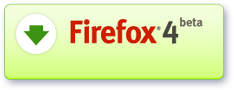
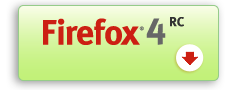
change firefox 4 beta homepage to RC (bug 627407)
git-svn-id: svn+ssh://svn.mozilla.org/projects/mozilla.com/trunk@82472 4eb1ac78-321c-0410-a911-ec516a8615a5

diff --git a/en-US/firefox/RC/index.html b/en-US/firefox/RC/index.html
@@ -1,7 +1,7 @@
 <?php
     // The $body_* variables are for compatibility with pre-existing css
 
-    $page_title = 'Firefox 4 Beta';
+    $page_title = 'Firefox 4 RC';
     $body_id    = 'firefox-beta';
 
     $current_url = 'http://'.$_SERVER['HTTP_HOST'].$_SERVER['REQUEST_URI'];
@@ -21,7 +21,7 @@ hidePartialLocaleJS(LATEST_FIREFOX_DEVEL_VERSION);
 ?>
 <div id="main-feature">
     <div id="feature-contents">
-        <h2><img src="<?=$config['static_prefix']?>/img/firefox/beta/4/title.png" alt="Firefox 4 Beta" /></h2>
+        <h2><img src="<?=$config['static_prefix']?>/img/firefox/beta/4/title.png" alt="Firefox 4 RC" /></h2>
         <h3>It all begins here:</h3>
         <p>Help make the next version of the world’s best browser.</p>
         <script>
@@ -43,7 +43,7 @@ hidePartialLocaleJS(LATEST_FIREFOX_DEVEL_VERSION);
 
 <div id="beta-sub-features">
     <div class="sub-feature" id="beta-install">
-        <h3>Install the Beta</h3>
+        <h3>Install the RC</h3>
 
     <script>
           <!--
@@ -66,7 +66,7 @@ hidePartialLocaleJS(LATEST_FIREFOX_DEVEL_VERSION);
           //-->
     </script>
     <?php echo $firefoxDetails->getNoScriptBlockForLocale('en-US', array('devel_version' => true)); ?>
-    <p>The Firefox 4 Beta includes the Feedback Add-on which includes you in user studies. No data will be sent to Mozilla without your permission. <a href="#privacy">More information</a></p>
+    <p>The Firefox 4 RC includes the Feedback Add-on which includes you in user studies. No data will be sent to Mozilla without your permission. <a href="#privacy">More information</a></p>
     </div>
     <div class="sub-feature" id="beta-feedback">
         <h3>Give us Feedback</h3>
@@ -77,7 +77,7 @@ hidePartialLocaleJS(LATEST_FIREFOX_DEVEL_VERSION);
         <h3>Spread the Word</h3>
         <div class="social-outer">
             <div class="social-inner tweet-link">
-                <?php $msg = "I just downloaded Firefox 4 Beta !" ; ?>
+                <?php $msg = "I just downloaded Firefox 4 RC !" ; ?>
                 <p><?= htmlspecialchars($msg) ?></p>
                 <a href="http://twitter.com/home/?status=<?=urlencode($msg)?>" class="tweet-this">Tweet this!</a>
             </div>
@@ -85,7 +85,7 @@ hidePartialLocaleJS(LATEST_FIREFOX_DEVEL_VERSION);
         <div class="social-outer">
             <div class="social-inner tweet-form">
                 <form action="http://twitter.com/home/" method="GET">
-                    <textarea name="status" rows="2" cols="20">I'm trying out Firefox 4 beta because... #fx4</textarea>
+                    <textarea name="status" rows="2" cols="20">I'm trying out Firefox 4 RC because... #fx4</textarea>
                     <button class="tweet-this">Tweet this!</button>
                 </form>
             </div>
@@ -94,21 +94,21 @@ hidePartialLocaleJS(LATEST_FIREFOX_DEVEL_VERSION);
             <div class="social-inner facebook-block">
                 <form action="http://www.facebook.com/sharer.php" method="GET">
                     <input type="hidden" name="u" value="<?=htmlspecialchars($current_url)?>" />
-                    <textarea rows="2" cols="20" name="t">Customize your Firefox 4 Beta tweet!</textarea>
+                    <textarea rows="2" cols="20" name="t">Customize your Firefox 4 RC tweet!</textarea>
                     <button class="update-status">Share this page</button>
                     <iframe src="http://www.facebook.com/plugins/like.php?href=<?=urlencode($current_url)?>&amp;layout=button_count&amp;show_faces=false&amp;width=90&amp;action=like&amp;colorscheme=light&amp;height=21" style="border: none; overflow:hidden; width:90px; height:21px;"></iframe>
                 </form>
             </div>
         </div>
-        <p>Help us make Firefox 4 Beta even better. After installing, click on feedback button to tell us what you think!. <a href="http://www.mozilla.com/en-US/firefox/beta/features/"></a></p>
+        <p>Help us make Firefox 4 RC even better. After installing, click on feedback button to tell us what you think!. <a href="http://www.mozilla.com/en-US/firefox/beta/features/"></a></p>
 
     </div>
     <div id="beta-sub-feature-footer"></div>
 </div>
 
 <div id="privacy" class="footnote"><div class="footnote-footer">
-    <h4>Firefox 4 Beta includes Feedback Add-on based on Mozilla Test Pilot</h4>
-    <p>Once you install the Firefox 4 Beta, you will notice the Feedback Add-on in the upper right corner. You can use this to provide instant feedback at any time. You will also be notified about user studies (run by Mozilla Test Pilot) which collect information about how you use Firefox, but not which websites you visit. You have control over your participation, and can choose to opt out of any study, or see what data has been collected. You will be asked before any data is sent to Mozilla. Please see
+    <h4>Firefox 4 RC includes Feedback Add-on based on Mozilla Test Pilot</h4>
+    <p>Once you install the Firefox 4 RC, you will notice the Feedback Add-on in the upper right corner. You can use this to provide instant feedback at any time. You will also be notified about user studies (run by Mozilla Test Pilot) which collect information about how you use Firefox, but not which websites you visit. You have control over your participation, and can choose to opt out of any study, or see what data has been collected. You will be asked before any data is sent to Mozilla. Please see
 the <a href="/<?=$lang?>/firefox/beta/feedbackprivacypolicy/">Feedback Add-on privacy policy</a> for more information.</p>
 </div></div>
 

diff --git a/style/firefox/beta/4/main.css b/style/firefox/beta/4/main.css
@@ -313,7 +313,7 @@ ul.download-firefox li {
 ul.download-firefox li a.download-link,
 ul.download-firefox li a.download-link:hover {
 	background: url(/img/firefox/beta/4/download-button.png) top left no-repeat;
-	padding: 50px 10px 10px 69px;
+	padding: 50px 10px 10px 43px;
 	height: 30px;
 	font-size: 131%;
 	margin-left: -4px;
